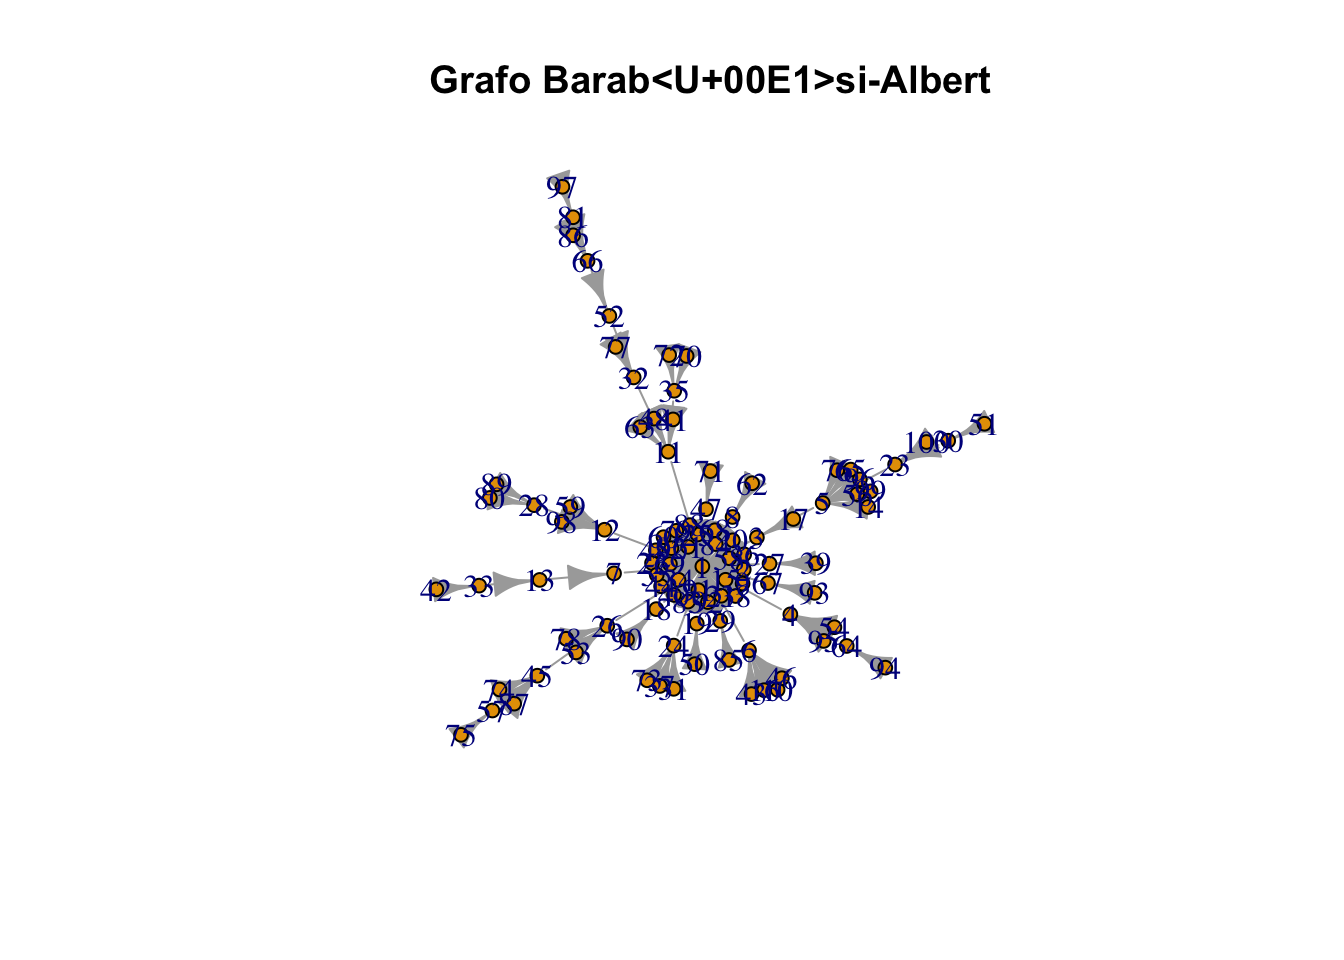
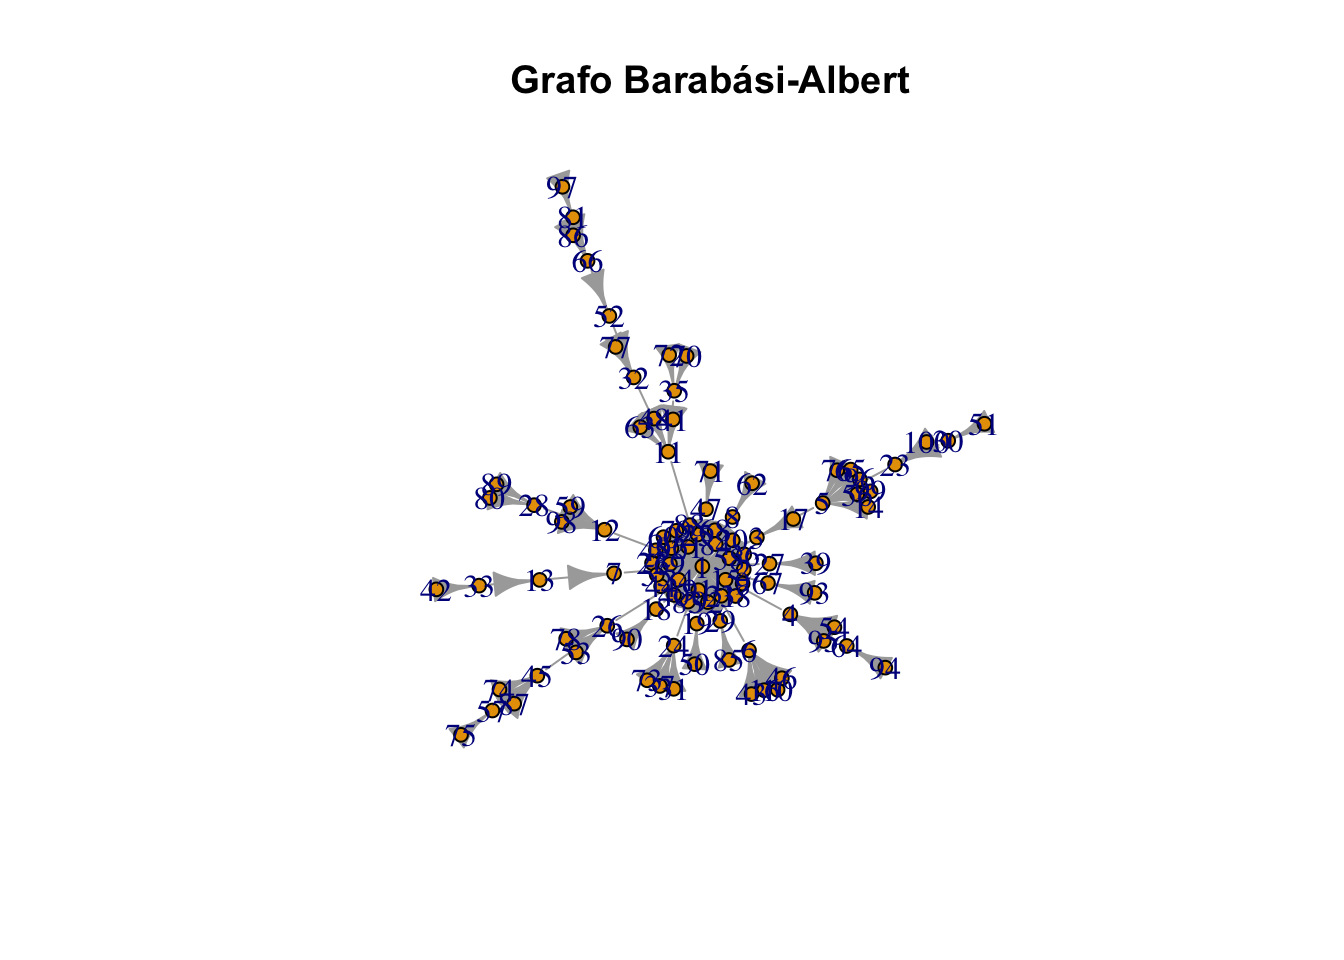
added second topology page update menu bar

Changed region(s): [[0.3125, 0.0625, 0.75, 0.0938]]

diff --git a/docs/minimal_analysis.html b/docs/minimal_analysis.html
@@ -324,7 +324,7 @@ pre > code.sourceCode > span > a:first-child::before { text-decoration: underlin
 <span id="cb8-6"><a href="#cb8-6" aria-hidden="true" tabindex="-1"></a><span class="fu">library</span>(igraph)</span></code><button title="Copy to Clipboard" class="code-copy-button"><i class="bi"></i></button></pre></div>
 <div class="cell-output cell-output-stderr">
 <pre><code>
-Adjuntando el paquete: 'igraph'</code></pre>
+Attaching package: 'igraph'</code></pre>
 </div>
 <div class="cell-output cell-output-stderr">
 <pre><code>The following objects are masked from 'package:stats':
@@ -544,7 +544,7 @@ gene clusters. OMICS: A Journal of Integrative Biology. 2012,
 </div>
 <div class="cell-output cell-output-stderr">
 <pre><code>
-Adjuntando el paquete: 'clusterProfiler'</code></pre>
+Attaching package: 'clusterProfiler'</code></pre>
 </div>
 <div class="cell-output cell-output-stderr">
 <pre><code>The following object is masked from 'package:igraph':
@@ -558,17 +558,17 @@ Adjuntando el paquete: 'clusterProfiler'</code></pre>
 </div>
 <div class="sourceCode cell-code" id="cb38"><pre class="sourceCode r code-with-copy"><code class="sourceCode r"><span id="cb38-1"><a href="#cb38-1" aria-hidden="true" tabindex="-1"></a><span class="fu">library</span>(org.Hs.eg.db) <span class="co"># Base de datos de genes humanos</span></span></code><button title="Copy to Clipboard" class="code-copy-button"><i class="bi"></i></button></pre></div>
 <div class="cell-output cell-output-stderr">
-<pre><code>Cargando paquete requerido: AnnotationDbi</code></pre>
+<pre><code>Loading required package: AnnotationDbi</code></pre>
 </div>
 <div class="cell-output cell-output-stderr">
-<pre><code>Cargando paquete requerido: stats4</code></pre>
+<pre><code>Loading required package: stats4</code></pre>
 </div>
 <div class="cell-output cell-output-stderr">
-<pre><code>Cargando paquete requerido: BiocGenerics</code></pre>
+<pre><code>Loading required package: BiocGenerics</code></pre>
 </div>
 <div class="cell-output cell-output-stderr">
 <pre><code>
-Adjuntando el paquete: 'BiocGenerics'</code></pre>
+Attaching package: 'BiocGenerics'</code></pre>
 </div>
 <div class="cell-output cell-output-stderr">
 <pre><code>The following objects are masked from 'package:igraph':
@@ -583,15 +583,15 @@ Adjuntando el paquete: 'BiocGenerics'</code></pre>
 <div class="cell-output cell-output-stderr">
 <pre><code>The following objects are masked from 'package:base':
 
-    Filter, Find, Map, Position, Reduce, anyDuplicated, aperm, append,
-    as.data.frame, basename, cbind, colnames, dirname, do.call,
-    duplicated, eval, evalq, get, grep, grepl, intersect, is.unsorted,
-    lapply, mapply, match, mget, order, paste, pmax, pmax.int, pmin,
-    pmin.int, rank, rbind, rownames, sapply, setdiff, table, tapply,
-    union, unique, unsplit, which.max, which.min</code></pre>
+    anyDuplicated, aperm, append, as.data.frame, basename, cbind,
+    colnames, dirname, do.call, duplicated, eval, evalq, Filter, Find,
+    get, grep, grepl, intersect, is.unsorted, lapply, Map, mapply,
+    match, mget, order, paste, pmax, pmax.int, pmin, pmin.int,
+    Position, rank, rbind, Reduce, rownames, sapply, setdiff, table,
+    tapply, union, unique, unsplit, which.max, which.min</code></pre>
 </div>
 <div class="cell-output cell-output-stderr">
-<pre><code>Cargando paquete requerido: Biobase</code></pre>
+<pre><code>Loading required package: Biobase</code></pre>
 </div>
 <div class="cell-output cell-output-stderr">
 <pre><code>Welcome to Bioconductor
@@ -602,7 +602,7 @@ Adjuntando el paquete: 'BiocGenerics'</code></pre>
 </div>
 <div class="cell-output cell-output-stderr">
 <pre><code>
-Adjuntando el paquete: 'Biobase'</code></pre>
+Attaching package: 'Biobase'</code></pre>
 </div>
 <div class="cell-output cell-output-stderr">
 <pre><code>The following object is masked from 'package:httr':
@@ -610,14 +610,14 @@ Adjuntando el paquete: 'Biobase'</code></pre>
     content</code></pre>
 </div>
 <div class="cell-output cell-output-stderr">
-<pre><code>Cargando paquete requerido: IRanges</code></pre>
+<pre><code>Loading required package: IRanges</code></pre>
 </div>
 <div class="cell-output cell-output-stderr">
-<pre><code>Cargando paquete requerido: S4Vectors</code></pre>
+<pre><code>Loading required package: S4Vectors</code></pre>
 </div>
 <div class="cell-output cell-output-stderr">
 <pre><code>
-Adjuntando el paquete: 'S4Vectors'</code></pre>
+Attaching package: 'S4Vectors'</code></pre>
 </div>
 <div class="cell-output cell-output-stderr">
 <pre><code>The following object is masked from 'package:clusterProfiler':
@@ -632,11 +632,11 @@ Adjuntando el paquete: 'S4Vectors'</code></pre>
 <div class="cell-output cell-output-stderr">
 <pre><code>The following objects are masked from 'package:base':
 
-    I, expand.grid, unname</code></pre>
+    expand.grid, I, unname</code></pre>
 </div>
 <div class="cell-output cell-output-stderr">
 <pre><code>
-Adjuntando el paquete: 'IRanges'</code></pre>
+Attaching package: 'IRanges'</code></pre>
 </div>
 <div class="cell-output cell-output-stderr">
 <pre><code>The following object is masked from 'package:clusterProfiler':
@@ -645,7 +645,7 @@ Adjuntando el paquete: 'IRanges'</code></pre>
 </div>
 <div class="cell-output cell-output-stderr">
 <pre><code>
-Adjuntando el paquete: 'AnnotationDbi'</code></pre>
+Attaching package: 'AnnotationDbi'</code></pre>
 </div>
 <div class="cell-output cell-output-stderr">
 <pre><code>The following object is masked from 'package:clusterProfiler':

diff --git a/docs/analisis_topo.html b/docs/analisis_topo.html
@@ -376,7 +376,7 @@ C = (v_1, v_2, \ldots, v_k, v_1) \text{ tal que } (v_i, v_{i+1}) \in E \text{ pa
 </div>
 <div class="sourceCode cell-code" id="cb8"><pre class="sourceCode r code-with-copy"><code class="sourceCode r"><span id="cb8-1"><a href="#cb8-1" aria-hidden="true" tabindex="-1"></a><span class="fu">cat</span>(<span class="st">"¿Es conexo (g_high)?"</span>, <span class="fu">is_connected</span>(g_high), <span class="st">"</span><span class="sc">\n</span><span class="st">"</span>)</span></code><button title="Copy to Clipboard" class="code-copy-button"><i class="bi"></i></button></pre></div>
 <div class="cell-output cell-output-stdout">
-<pre><code>&lt;U+00BF&gt;Es conexo (g_high)? TRUE </code></pre>
+<pre><code>¿Es conexo (g_high)? TRUE </code></pre>
 </div>
 </div>
 <p>Grafo con alta conectividad.</p>
@@ -407,7 +407,7 @@ C = (v_1, v_2, \ldots, v_k, v_1) \text{ tal que } (v_i, v_{i+1}) \in E \text{ pa
 </div>
 <div class="sourceCode cell-code" id="cb15"><pre class="sourceCode r code-with-copy"><code class="sourceCode r"><span id="cb15-1"><a href="#cb15-1" aria-hidden="true" tabindex="-1"></a><span class="fu">cat</span>(<span class="st">"¿Es conexo (g_low)?"</span>, <span class="fu">is_connected</span>(g_low), <span class="st">"</span><span class="sc">\n</span><span class="st">"</span>)</span></code><button title="Copy to Clipboard" class="code-copy-button"><i class="bi"></i></button></pre></div>
 <div class="cell-output cell-output-stdout">
-<pre><code>&lt;U+00BF&gt;Es conexo (g_low)? TRUE </code></pre>
+<pre><code>¿Es conexo (g_low)? TRUE </code></pre>
 </div>
 </div>
 <p>Grafo con baja conectividad.</p>
@@ -515,7 +515,7 @@ E . . 1 1 .</code></pre>
 <span id="cb24-9"><a href="#cb24-9" aria-hidden="true" tabindex="-1"></a>dense_matrix_size <span class="ot">&lt;-</span> <span class="fu">object.size</span>(dense_matrix)</span>
 <span id="cb24-10"><a href="#cb24-10" aria-hidden="true" tabindex="-1"></a><span class="fu">print</span>(<span class="fu">paste</span>(<span class="st">"Tamaño de la matriz densa:"</span>, <span class="fu">format</span>(dense_matrix_size, <span class="at">units =</span> <span class="st">"auto"</span>)))</span></code><button title="Copy to Clipboard" class="code-copy-button"><i class="bi"></i></button></pre></div>
 <div class="cell-output cell-output-stdout">
-<pre><code>[1] "Tama&lt;U+00F1&gt;o de la matriz densa: 3 Gb"</code></pre>
+<pre><code>[1] "Tamaño de la matriz densa: 3 Gb"</code></pre>
 </div>
 <div class="sourceCode cell-code" id="cb26"><pre class="sourceCode r code-with-copy"><code class="sourceCode r"><span id="cb26-1"><a href="#cb26-1" aria-hidden="true" tabindex="-1"></a><span class="co"># Convertir la matriz densa a una matriz dispersa</span></span>
 <span id="cb26-2"><a href="#cb26-2" aria-hidden="true" tabindex="-1"></a>sparse_matrix <span class="ot">&lt;-</span> <span class="fu">as</span>(dense_matrix, <span class="st">"sparseMatrix"</span>)</span>
@@ -524,7 +524,7 @@ E . . 1 1 .</code></pre>
 <span id="cb26-5"><a href="#cb26-5" aria-hidden="true" tabindex="-1"></a>sparse_matrix_size <span class="ot">&lt;-</span> <span class="fu">object.size</span>(sparse_matrix)</span>
 <span id="cb26-6"><a href="#cb26-6" aria-hidden="true" tabindex="-1"></a><span class="fu">print</span>(<span class="fu">paste</span>(<span class="st">"Tamaño de la matriz dispersa:"</span>, <span class="fu">format</span>(sparse_matrix_size, <span class="at">units =</span> <span class="st">"auto"</span>)))</span></code><button title="Copy to Clipboard" class="code-copy-button"><i class="bi"></i></button></pre></div>
 <div class="cell-output cell-output-stdout">
-<pre><code>[1] "Tama&lt;U+00F1&gt;o de la matriz dispersa: 7.5 Mb"</code></pre>
+<pre><code>[1] "Tamaño de la matriz dispersa: 7.5 Mb"</code></pre>
 </div>
 </div>
 </section>
